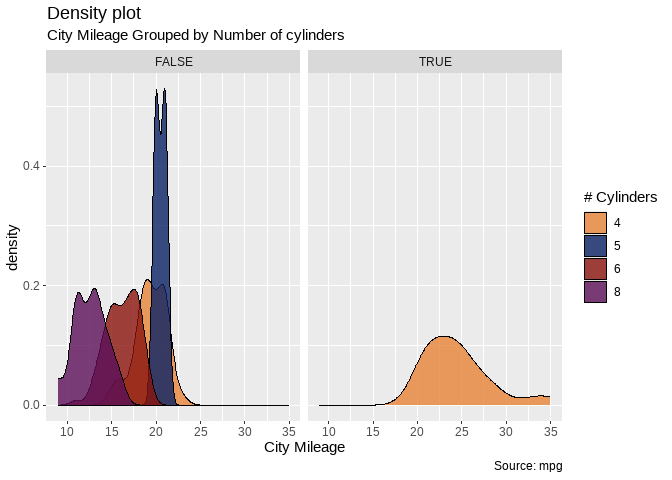
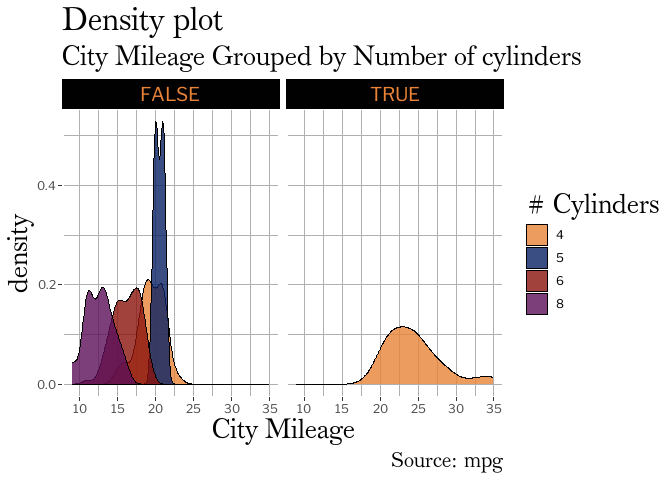
fix theme match font logic

diff --git a/README.md b/README.md
@@ -5,6 +5,7 @@
 
 <!-- badges: start -->
 
+[![R-CMD-check](https://github.com/christopherkenny/ggtiger/actions/workflows/R-CMD-check.yaml/badge.svg)](https://github.com/christopherkenny/ggtiger/actions/workflows/R-CMD-check.yaml)
 <!-- badges: end -->
 
 The goal of `ggtiger` is to …
@@ -39,7 +40,8 @@ mpg |>
     fill = '# Cylinders'
   ) +
   facet_wrap(~ (hwy > 29)) +
-  scale_fill_princeton_d()
+  scale_fill_princeton_d() +
+  theme_princeton()
 ```
 
 <img src="man/figures/README-example-1.png" width="100%" />
